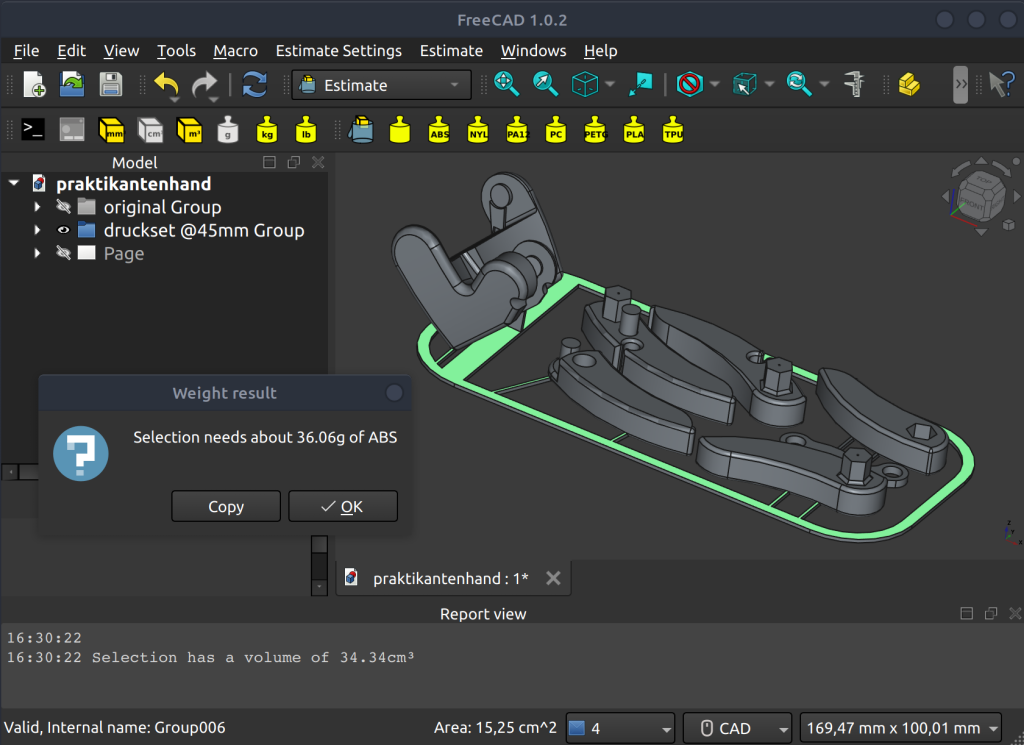
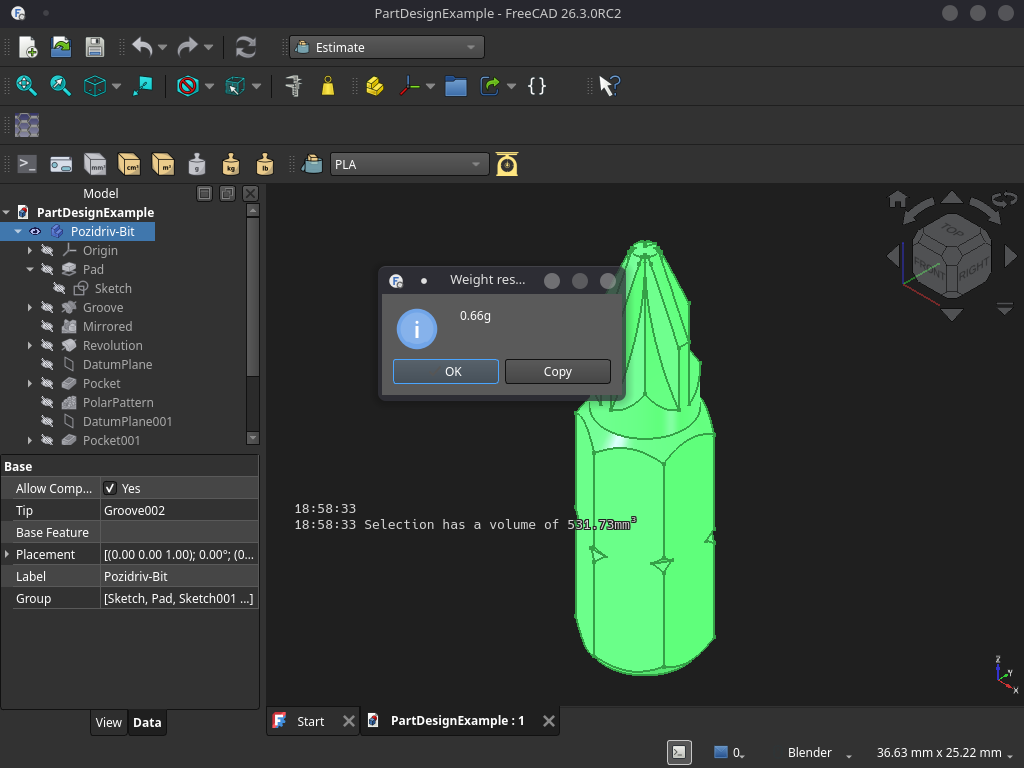
Document material dropdown toolbar and refresh screenshots
- README/Overview: describe the material dropdown, metals, Custom…
  density entry and calculate button; drop the per-material icon step
  from Customize; use repo-relative screenshot links.
- README: add an "unreleased" version entry explaining each change.
- Replace screenshot.png and add dropdown / custom density shots,
  taken in FreeCAD 26.3.

diff --git a/README.md b/README.md
@@ -7,9 +7,9 @@ A FreeCAD workbench to estimate material quantity by volume or weight for select
 
 You can display the volume or expected weight of selected objects at the push of a button. Both display with the decimal precision as set in FreeCAD's settings (2 by default if not specified). Rounding has been adjusted to ignore floating point offsets and limit confusion with defined 1cm³ cubes displaying 1.01 cm³. This might lead to a slight but most likely negligible rounding error, as the output enables you to estimate or calculate the necessary amount of material for additive manufacturing - @100 % infill, ignoring support structures, purging and other slicer settings that add anyway.
 
-Some common 3d-printing materials are supported by default, but you can always select the weight calculation with a custom selected density in g/cm³.
+Common 3d-printing materials and a range of metals are supported by default, and you can always pick a custom density in g/cm³ from the same material dropdown.
 
-![screenshot](https://raw.githubusercontent.com/erroronline1/estimateWB/master/freecad/estimateWB/resources/screenshot.png)
+![screenshot](freecad/estimateWB/resources/screenshot.png)
 
 ### Version compatibility
 
@@ -24,6 +24,13 @@ Some common 3d-printing materials are supported by default, but you can always s
 </details>
 
 ### Version update
+* unreleased
+    * **material dropdown instead of one button per material**: the estimate toolbar had a button for every material, which doesn't scale beyond a handful of materials. Materials are now picked from a dropdown and the weight is calculated with the calculate button next to it
+    * **metals added**: aluminium, brass, bronze, copper, gold, iron, lead, magnesium, mercury, nickel, platinum, silver, steel, tin alloys, titanium, tungsten and zinc densities. These were stranded in an outdated copy of the workbench in the repository root since the restructure and are now part of the actual workbench
+    * **custom density moved into the dropdown**: the separate custom density button is replaced by the *Custom…* entry, which prompts once, remembers the density across restarts and is used by the calculate button like any other material
+    * **shorter weight result**: the report view line and popup show only the weight (e.g. *0.66g*), as the material is visible in the dropdown
+    * **report view opens on calculate**: the report view panel is opened and brought to the front if it's closed or behind another tab, including with FreeCAD's overlay panels enabled
+    * **cleanup**: the outdated root level copy of the workbench (pre-restructure python files, languages and icons) and the no longer used per-material and custom density icons are removed
 * 0.1.5
     * same functionality, new codebase
     * settings as a single menu item and toolbar
@@ -42,9 +49,16 @@ Two toolbars are available:
 * Select the desired output for the weight in g, kg or lb 
 
 **Estimate**
-* The first option returns the volume of the selected object
-* The second option prompts you to provide a decimal density to return the estimated specific but custom weight
-* Any other option returns preset material weight estimations (currently ABS, NYLon, PA12, PolyCarbonate, PETG, PLA and TPU)
+* The volume button returns the volume of the selected objects
+* The material dropdown selects what the weight is calculated with
+    * 3d-printing plastics: ABS, NYLon, PA12, PolyCarbonate, PETG, PLA and TPU
+    * metals: aluminium, brass, bronze, copper, gold, iron, lead, magnesium, mercury, nickel, platinum, silver, steel, tin alloys, titanium, tungsten and zinc
+    * *Custom…* at the end of the list asks for a decimal density in g/cm³ (comma or dot), saves it and shows it in the dropdown, e.g. *Custom (1.38 g/cm³)*. Pick it again to change the density. The saved density is kept across FreeCAD restarts
+* The calculate button (scale icon) next to the dropdown returns the estimated weight of the selected objects for the picked material. If the report view panel is closed it is opened, so the result isn't missed
+
+![material dropdown](freecad/estimateWB/resources/screenshot_materials.png)
+
+![custom density](freecad/estimateWB/resources/screenshot_custom_density.png)
 
 Thats all. Basically the workbench reads the objects shape.volume-property provided by FreeCAD, which is conveniently returned in mm³. So any output will be in metric units by default, lb and weight units toolbar work of [@zackwhit](https://github.com/zackwhit/). They also added a popup that has been applied to the volume as well in version 0.1.4 - now toggleable for either report view or popup.
 
@@ -72,7 +86,7 @@ This workbench can be installed manually by adding the whole folder into the per
 
 ### Customize
 
-If you want to change standard materials you can do so by editing the materials.json-file and add a respective named icon to the ressources-folder. The list of buttons will update itself. If you are unsatisfied with the default densities you are free to edit these within the file as well.
+If you want to change standard materials you can do so by editing the `freecad/estimateWB/resources/materials.json`-file (name and density in g/cm³). The material dropdown will update itself after a FreeCAD restart, no icons needed. If you are unsatisfied with the default densities you are free to edit these within the file as well, or use the *Custom…* entry for a one-off density.
 
 Different languages according to user settings are technically supported - but actually restricted to english by default and german due to my own limitations. This might be more proof-of-concept than actually useful but feel free to contribute :) Since one does usually not switch languages by the minute I did not bother finding out how to update during runtime yet, so FreeCad has to be restarted to have language-changes take effect on this workbench.
 

diff --git a/Overview.md b/Overview.md
@@ -4,9 +4,9 @@ A FreeCAD workbench to estimate material quantity by volume or weight for select
 
 You can display the volume or expected weight of selected objects at the push of a button. Both display with the decimal precision as set in FreeCAD's settings (2 by default if not specified). Rounding has been adjusted to ignore floating point offsets and limit confusion with defined 1cm³ cubes displaying 1.01 cm³. This might lead to a slight but most likely negligible rounding error, as the output enables you to estimate or calculate the necessary amount of material for additive manufacturing - @100 % infill, ignoring support structures, purging and other slicer settings that add anyway.
 
-Some common 3d-printing materials are supported by default, but you can always select the weight calculation with a custom selected density in g/cm³.
+Common 3d-printing materials and a range of metals are supported by default, and you can always pick a custom density in g/cm³ from the same material dropdown.
 
-![screenshot](https://raw.githubusercontent.com/erroronline1/estimateWB/master/freecad/estimateWB/resources/screenshot.png)
+![screenshot](freecad/estimateWB/resources/screenshot.png)
 
 ### Usage
 
@@ -20,9 +20,16 @@ Two toolbars are available:
 * Select the desired output for the weight in g, kg or lb 
 
 **Estimate**
-* The first option returns the volume of the selected object
-* The second option prompts you to provide a decimal density to return the estimated specific but custom weight
-* Any other option returns preset material weight estimations (currently ABS, NYLon, PA12, PolyCarbonate, PETG, PLA and TPU)
+* The volume button returns the volume of the selected objects
+* The material dropdown selects what the weight is calculated with
+    * 3d-printing plastics: ABS, NYLon, PA12, PolyCarbonate, PETG, PLA and TPU
+    * metals: aluminium, brass, bronze, copper, gold, iron, lead, magnesium, mercury, nickel, platinum, silver, steel, tin alloys, titanium, tungsten and zinc
+    * *Custom…* at the end of the list asks for a decimal density in g/cm³ (comma or dot), saves it and shows it in the dropdown, e.g. *Custom (1.38 g/cm³)*. Pick it again to change the density. The saved density is kept across FreeCAD restarts
+* The calculate button (scale icon) next to the dropdown returns the estimated weight of the selected objects for the picked material. If the report view panel is closed it is opened, so the result isn't missed
+
+![material dropdown](freecad/estimateWB/resources/screenshot_materials.png)
+
+![custom density](freecad/estimateWB/resources/screenshot_custom_density.png)
 
 Thats all. Basically the workbench reads the objects shape.volume-property provided by FreeCAD, which is conveniently returned in mm³.
 
